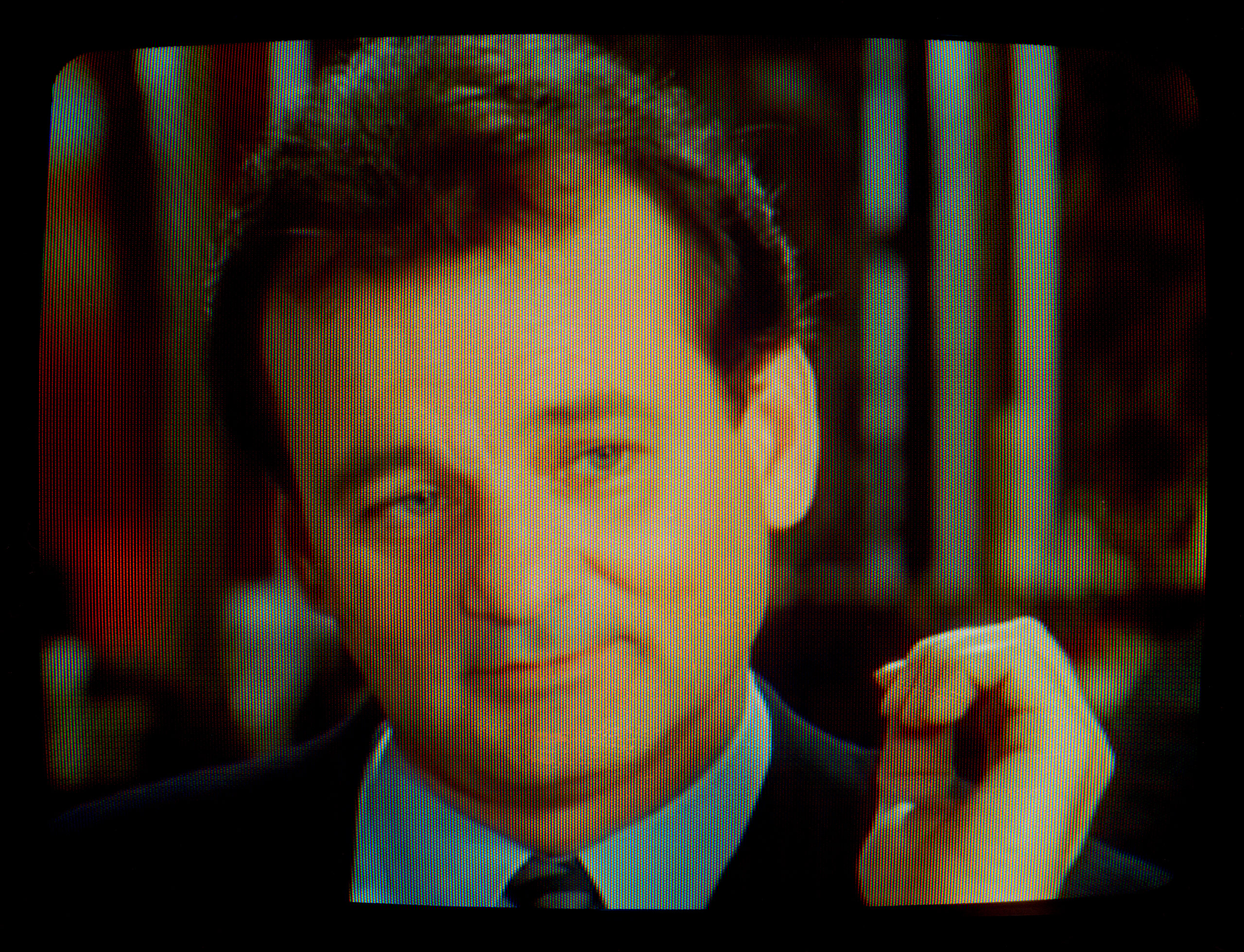
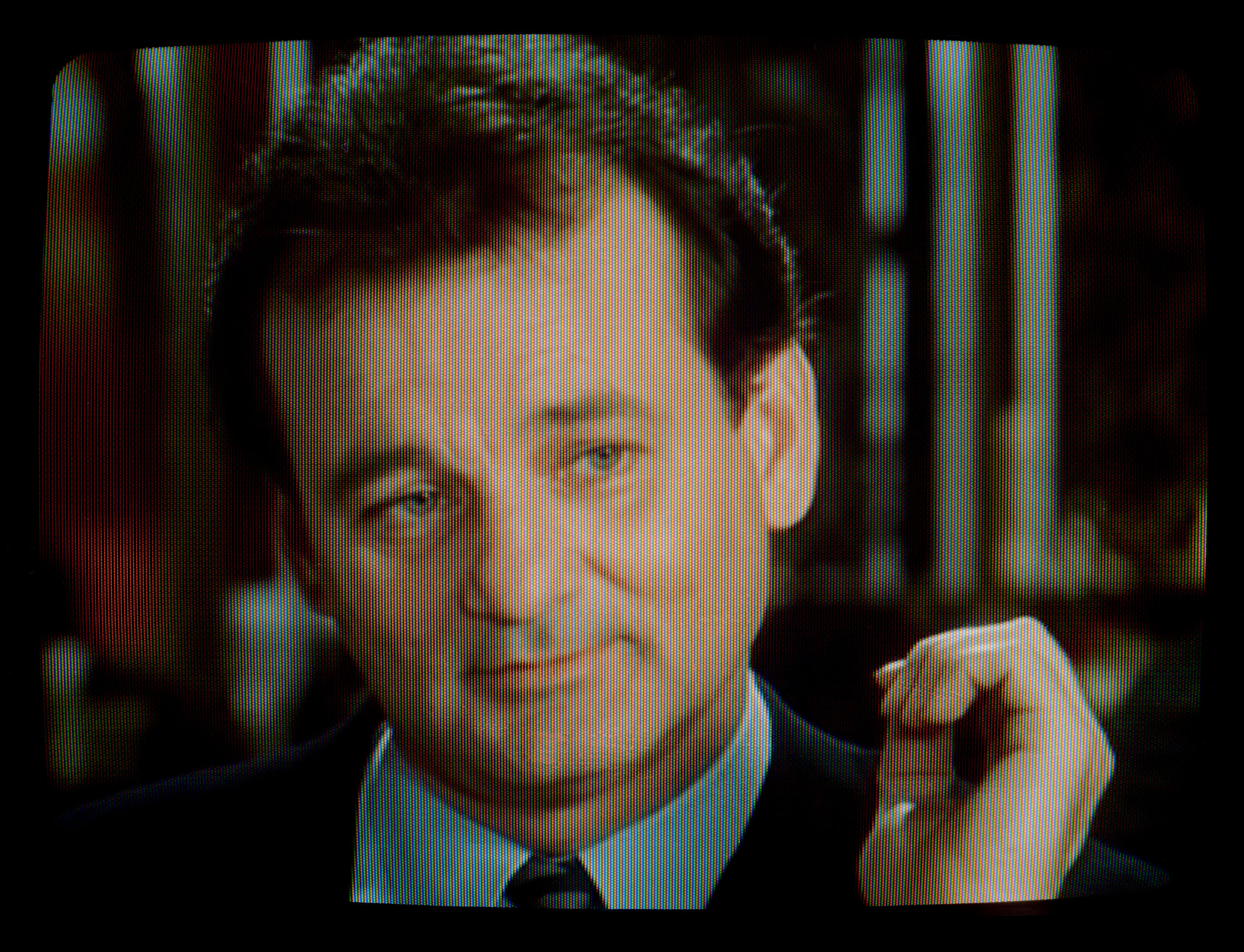
Add detail option for pictures

diff --git a/components/photograph-figure.tsx b/components/photograph-figure.tsx
@@ -1,3 +1,6 @@
+'use client';
+
+import { useState } from 'react';
 import { Photograph } from '../data/photographs';
 import styles from './photograph-figure.module.css';
 
@@ -5,19 +8,39 @@ type Props = {
   photograph: Photograph;
 };
 
-const PhotographFigure = ({ photograph }: Props) => (
-  <>
-    <figure className={styles.photographFigure}>
-      <img
-        src={`/images/${photograph.slug}.jpg`}
-        alt={`${photograph.title}, ${photograph.year}`}
-      />
-    </figure>
+const PhotographFigure = ({ photograph }: Props) => {
+  const [showDetail, setShowDetail] = useState(false);
+  const imageUrl = showDetail
+    ? `/images/${photograph.slug}-detail.jpg`
+    : `/images/${photograph.slug}.jpg`;
 
-    <figcaption className={styles.photographCaption}>
-      {photograph.title}, {photograph.year}.
-    </figcaption>
-  </>
-);
+  return (
+    <>
+      <figure className={styles.photographFigure}>
+        <img src={imageUrl} alt={`${photograph.title}, ${photograph.year}`} />
+      </figure>
+
+      <figcaption className={styles.photographCaption}>
+        {photograph.title}, {photograph.year}.
+      </figcaption>
+
+      {photograph.hasDetail && (
+        <section className={styles.detailSwitcher}>
+          <span
+            className={showDetail ? '' : styles.active}
+            onClick={() => setShowDetail(false)}>
+            picture
+          </span>
+          {' · '}
+          <span
+            className={showDetail ? styles.active : ''}
+            onClick={() => setShowDetail(true)}>
+            detail
+          </span>
+        </section>
+      )}
+    </>
+  );
+};
 
 export default PhotographFigure;

diff --git a/components/photograph-figure.module.css b/components/photograph-figure.module.css
@@ -11,7 +11,7 @@
 @media (min-width: 768px) {
   .photographFigure img {
     min-height: 20rem;
-    max-height: calc(100vh - 14rem);  
+    max-height: calc(100vh - 14rem);
     max-width: 2048;
   }
 }
@@ -21,3 +21,16 @@
   text-align: center;
 }
 
+.detailSwitcher {
+  font-style: italic;
+  color: var(--foreground-color-muted);
+}
+
+.detailSwitcher span {
+  display: inline-block;
+  cursor: pointer;
+}
+
+.detailSwitcher .active {
+  color: var(--foreground-color);
+}

diff --git a/data/photographs.ts b/data/photographs.ts
@@ -4,6 +4,7 @@ export type Photograph = {
   year: number;
   slug: string;
   title: string;
+  hasDetail?: boolean;
 };
 
 const photographs: Array<Photograph> = [
@@ -12,7 +13,8 @@ const photographs: Array<Photograph> = [
     publishDate: '2024-07-23',
     year: 2024,
     slug: '2024-aperture-grille-0',
-    title: 'Aperture Grille 0'
+    title: 'Aperture Grille 0',
+    hasDetail: true
   },
   {
     publish: true,

diff --git a/styles/global.css b/styles/global.css
@@ -7,6 +7,7 @@
   --font-weight-regular: 400;
   --font-weight-bold: 500;
   --foreground-color: black;
+  --foreground-color-muted: rgb(128, 128, 128);
   --background-color: white;
   --link-background-color: rgba(0, 0, 0, 0.05);
   --mark-background-color: hsl(64, 100%, 93%);
